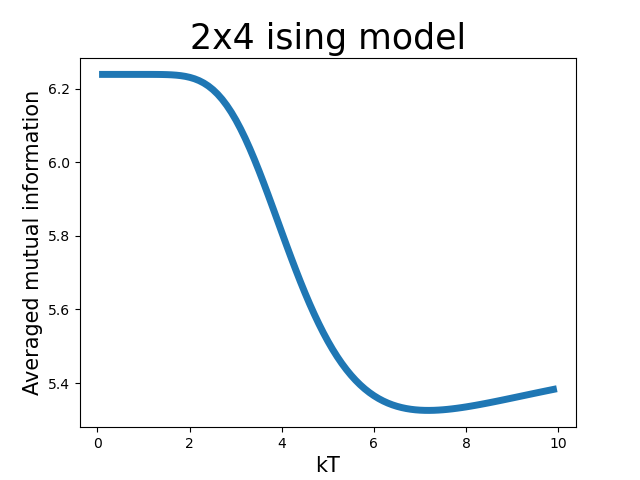
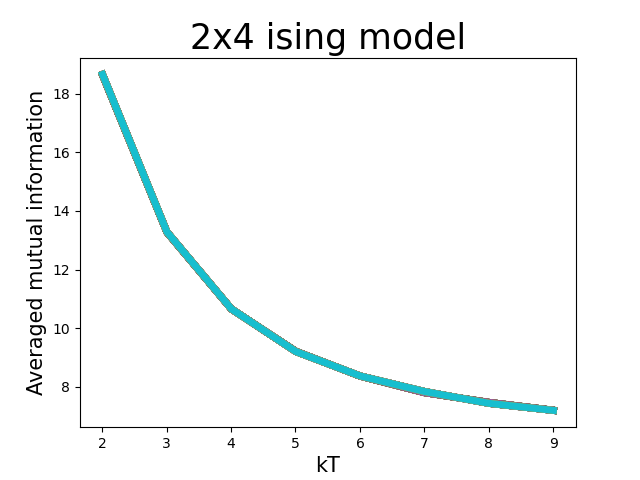
more updates

diff --git a/ising_model/simple_ising.py b/ising_model/simple_ising.py
@@ -66,6 +66,7 @@ def f_prob_calc(J, kT, n, m):
     product_prob = np.array([my_dict[str(left_lattice)] * my_dict[str(right_lattice)]
                              for left_lattice in left_lattices
                              for right_lattice in right_lattices])
+    product_prob /= product_prob.sum()
     return joint_prob, product_prob
 # calculate left and right entropy
 def f_prob_calc_left(J, kT, n, m):   
@@ -125,4 +126,4 @@ def theoretic_ising():
 
 
 
-theoretic_ising()
+#theoretic_ising()

diff --git a/ising_model/neural_ising.py b/ising_model/neural_ising.py
@@ -44,7 +44,7 @@ def LossFunction(joint_prob, product_prob, joint_output, product_output, eps = 1
     product_output = np.delete(product_output, cond)
     product_prob = np.delete(product_prob, cond)
     joint_part = (joint_prob * joint_output).sum()
-    product_part = np.log(product_prob * (np.exp(product_output))).sum()
+    product_part = np.log((product_prob * (np.exp(product_output))).sum())
     #print(product_prob.shape)
     mutual = (joint_part - product_part)
     return mutual

diff --git a/ising_model/neural_runner.py b/ising_model/neural_runner.py
@@ -9,9 +9,9 @@ import neural_ising as ni
 import numpy as np
 import matplotlib.pyplot as plt
 
-start_kT = 1
-end_kT = 30
-num_T = 40
+start_kT = 0.01
+end_kT = 10
+num_T = 10
 list_mutual_information = []
 n = 2
 m = 4
